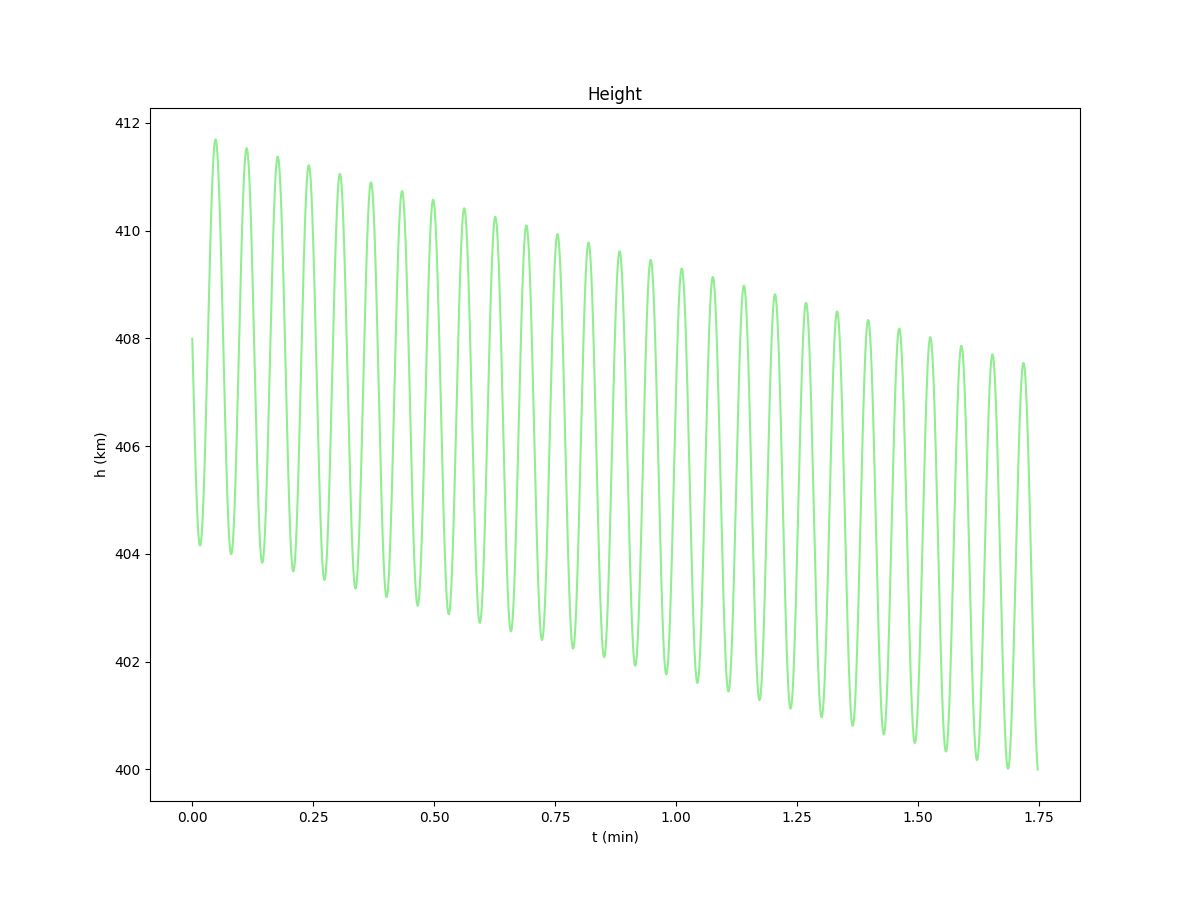
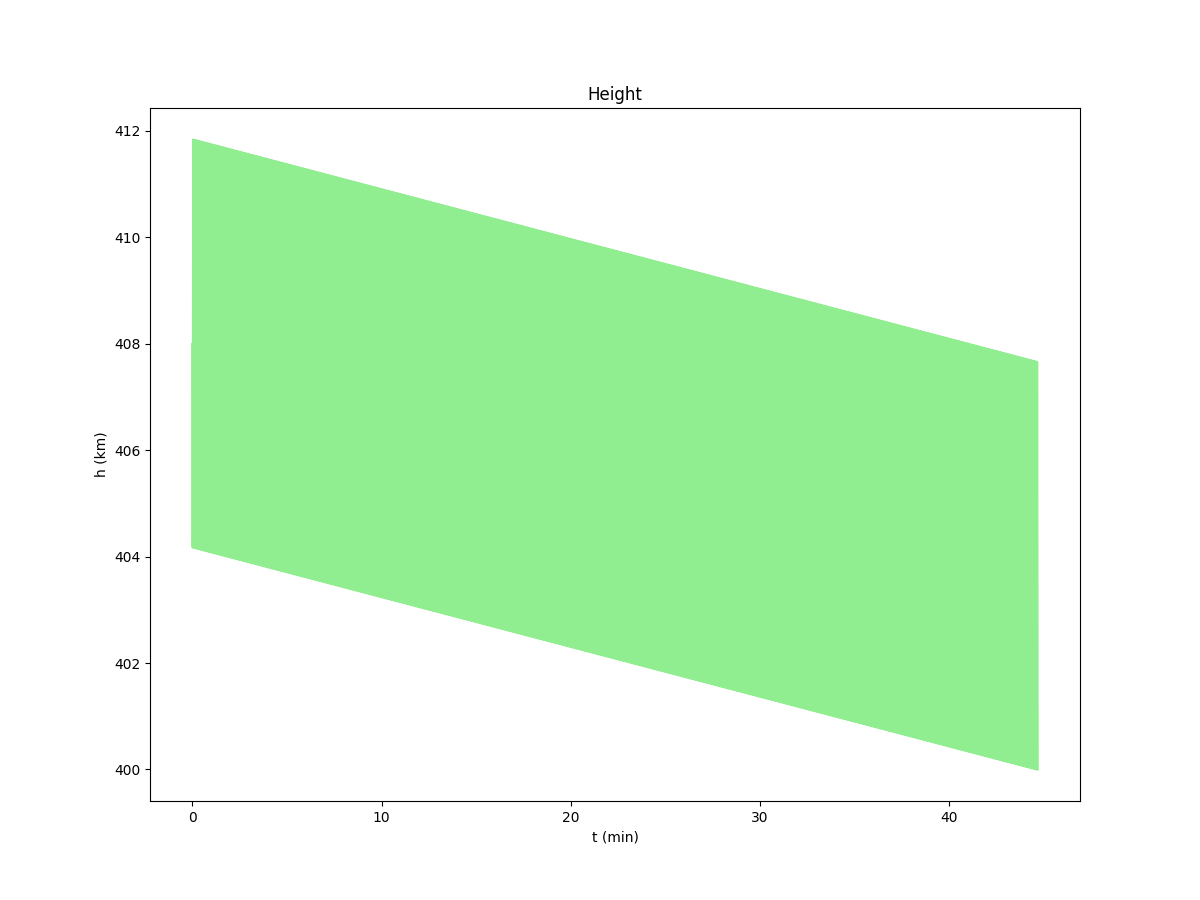
Added data for ISS

diff --git a/Code/graphs.py b/Code/graphs.py
@@ -1,5 +1,3 @@
-#TODO moram ispraviti formulu za ro, nije dobra jer sam uzimao A i Cd za sferu, a ne za ISS
-
 import numpy as np
 import matplotlib.pyplot as plt
 import matplotlib.animation as animation
@@ -19,21 +17,17 @@ m = 419455 # 419455 for ISS
 h = 4.08 * 1e5#408*1e3 for ISS
 dt = 1
 
-viewSize = 2*Re
-
-Area = 7850 #Sphere with radius = 50m, overkill for ISS
-Cd = 0.47
+Area = 1324.4
+Cd = 2
 
 #Initial values######################################################################
 R = Re + h
 p = np.array([R, 0])
-v = 1 * np.array([0, np.sqrt(G*M/R)])
+v = 1 * np.array([0, np.sqrt(G*M/R)]) #||v|| = 7.66km/s for ISS 
 t = 0
 a = 0
-ro = 6.28e-11
-roGnd = 1.225
+ro = 3.3e-12 #http://www.braeunig.us/space/atmos.htm
 
-print(v)
 
 #Figures and axes##############################################################
 figEnergy, axEnergy = plt.subplots()
@@ -72,13 +66,8 @@ def printValues():
 #MAIN LOOP##########################################################################
 h = np.linalg.norm(p) - Re
 while(h > 4.0e5):
-    if(roGnd*np.exp(-h/1e4) > ro): #true when h<237km
-        ro = roGnd*np.exp(-h/1e4)
-
-    #if(t>1e4):
-    #    break
-    #if(t%500 == 0 or h<25130):
-    #    printValues()
+    if(t%100000 == 0 or h<25130):
+        printValues()
 
     R = np.linalg.norm(p)
     a = - p * G*M/(R**3) - np.linalg.norm(v)*v*ro*Area*Cd/(2*m)
@@ -103,7 +92,7 @@ axEnergy.plot(ts, Es, color='lightblue')
 axHeight.plot(ts, Hs, color='lightgreen')
 axVelocity.plot(ts, Vs, color='orange')
 
-#savePlots(base = '../Small_dt', figures=[figEnergy, figHeight, figVelocity], 
-#            paths=['ISS_E', 'ISS_H', 'ISS_V'])
+savePlots(base = '../Large_dt', figures=[figEnergy, figHeight, figVelocity], 
+            paths=['ISS_E', 'ISS_H', 'ISS_V'])
 
 plt.show()

diff --git a/Code/animation.py b/Code/animation.py
@@ -14,12 +14,12 @@ Re = 6371 * 1e3
 M = 5.972 * 1e24
 m = 1000 # 419455 for ISS
 h = 408 * 1e3 #408*1e3 for ISS
-dt = 60
+dt = 10
 
 viewSize = 2*Re
 
-Area = 7850
-Cd = 0.47
+Area = 1324.4
+Cd = 2
 
 #Initial values######################################################################
 R = Re + h
@@ -141,7 +141,7 @@ def animate(i):
     return lSatellite, lEnergy, lHeight, lVelocity
 
 anim = animation.FuncAnimation(fig, animate, init_func=init, 
-                            frames=365, interval=40, blit=True)
+                            frames=365, interval=10, blit=True)
 
 #print(anim.__dict__)
 
